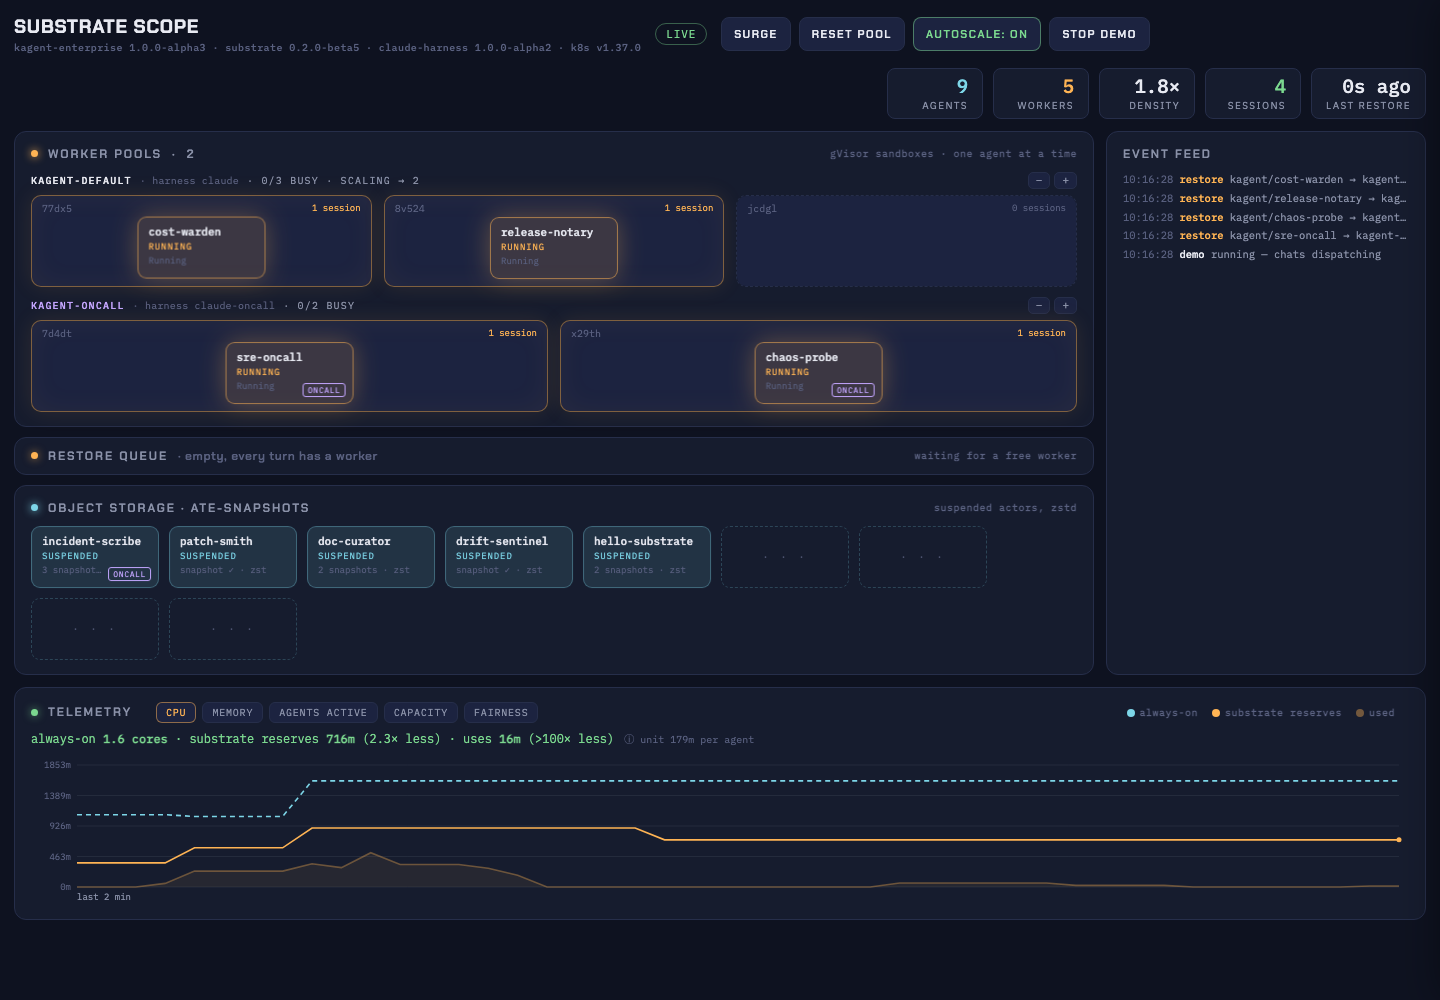
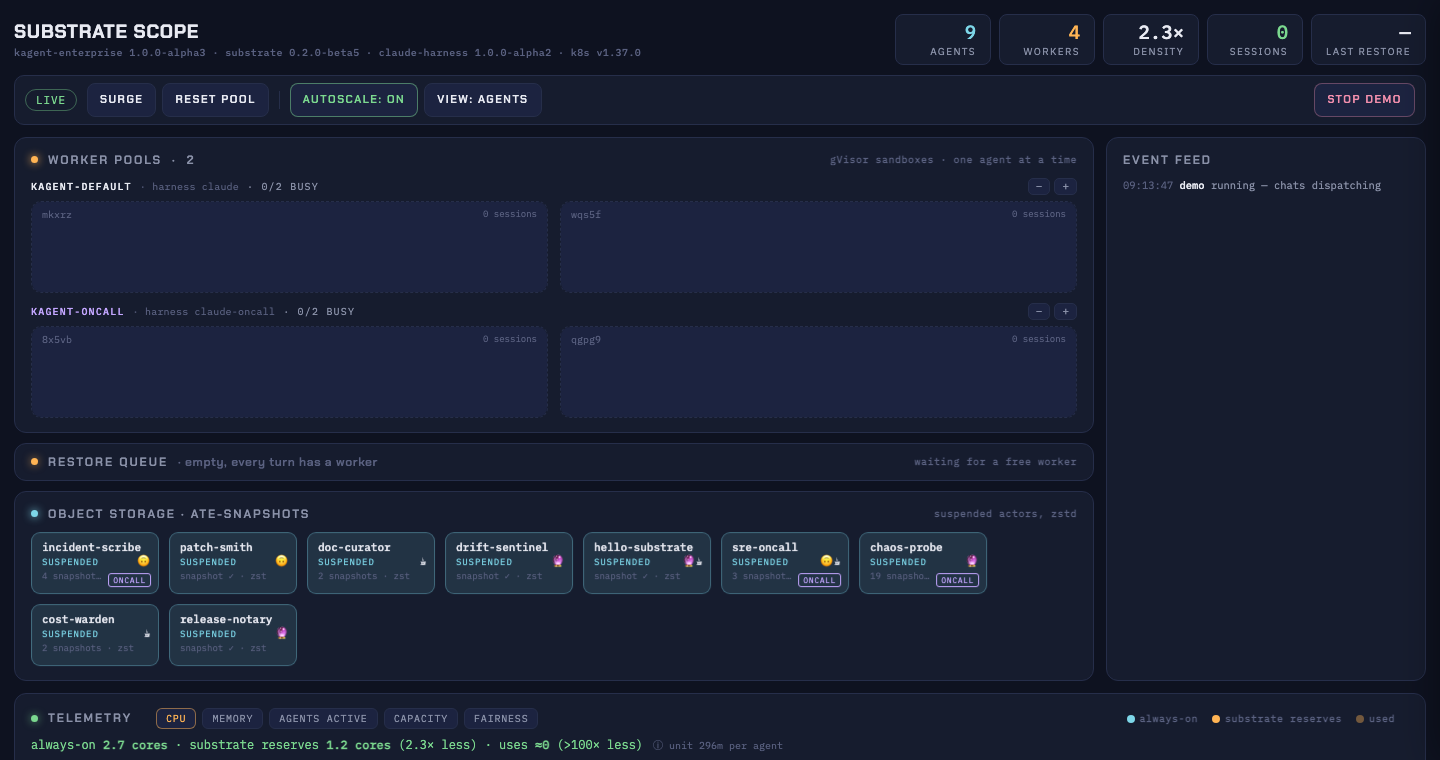
Header: brand + stats on one row, controls in a toolbar strip
The title, the floating buttons and the wrapping stat tiles read as three
unaligned groups. Now: row 1 is the brand (versions under it) and the
stats; row 2 is one toolbar with LIVE, the workload actions, the view and
scaling toggles, and STOP DEMO pinned right in its warning color. Chip
tool icons move to the status line so agent names get their full width.
README screenshot refreshed.

diff --git a/public/index.html b/public/index.html
@@ -18,7 +18,15 @@
   .app{display:flex;flex-direction:column;gap:12px;padding:14px;min-height:100vh}
 
   /* ── header ─────────────────────────────────────────── */
-  header{display:flex;align-items:center;gap:14px;flex-wrap:wrap}
+  /* row 1: brand left, stats right; row 2: one toolbar strip */
+  header{display:flex;flex-direction:column;gap:10px}
+  .hrow{display:flex;align-items:center;justify-content:space-between;gap:14px;flex-wrap:wrap}
+  .toolbar{display:flex;align-items:center;gap:10px;flex-wrap:wrap;padding:7px 10px;
+           background:var(--panel);border:1px solid var(--line);border-radius:10px}
+  .toolbar .ctrls{flex-wrap:wrap}
+  .tgroup{display:inline-flex;gap:6px}
+  .tsep{width:1px;height:18px;background:var(--line);margin:0 2px}
+  .toolbar .stop{margin-left:auto;color:var(--warn);border-color:rgba(242,143,173,.35)}
   .brand{font-family:var(--disp);font-weight:700;font-size:19px;letter-spacing:.04em}
   .brand small{color:var(--faint);font-weight:500;margin-left:8px;letter-spacing:.12em;font-size:11px;text-transform:uppercase}
   /* versions sit on their own line under the title, so they never push the controls */
@@ -40,7 +48,7 @@
   .surge{width:auto;padding:0 12px;font-family:var(--disp);font-weight:600;font-size:11px;
          letter-spacing:.14em;height:34px;border-radius:8px}
 
-  .stats{display:flex;gap:10px;margin-left:auto;flex-wrap:wrap}
+  .stats{display:flex;gap:8px;flex-wrap:wrap}
   .stat{background:var(--panel);border:1px solid var(--line);border-radius:8px;
         padding:6px 14px;text-align:right;min-width:96px}
   .stat b{display:block;font-family:var(--mono);font-size:19px;font-weight:500;
@@ -153,9 +161,9 @@
             border:1px solid var(--pc, var(--line));color:var(--pc, var(--faint))}
   .chip .pb:empty{display:none}
   /* the MCP servers an agent can call, as their icons (hover for the list) */
-  .chip .tl{position:absolute;top:6px;right:7px;font-size:10px;letter-spacing:1px;line-height:1}
+  .chip .tl{position:absolute;top:24px;right:7px;font-size:10px;letter-spacing:1px;line-height:1}
   .chip .tl:empty{display:none}
-  .chip.tooled .nm{padding-right:26px}
+  .chip.tooled .st{padding-right:28px}
   #versions{text-transform:none;letter-spacing:.04em}
   .chip.pooled .meta{padding-right:46px}
   .pgroup .plabel b{color:var(--pc, var(--text));white-space:nowrap}
@@ -276,30 +284,39 @@
 
 <div class="app">
   <header>
-    <div class="brand">SUBSTRATE SCOPE<small id="versions">kagent enterprise · live actor lifecycle</small></div>
-    <div class="mode" id="mode">SIMULATED</div>
-    <div class="ctrls" id="ctrls">
-      <div class="ctrl" id="wctrl"><span>workers</span>
-        <button id="w-dn" aria-label="fewer workers">−</button>
-        <button id="w-up" aria-label="more workers">+</button></div>
-      <div class="ctrl"><span>agents</span>
-        <button id="a-dn" aria-label="fewer agents">−</button>
-        <button id="a-up" aria-label="more agents">+</button></div>
-      <button class="surge" id="surge" title="invoke every idle agent at once">SURGE</button>
-      <button class="surge" id="reset" title="bounce worker pods to free wedged slots (snapshots survive)"
-              style="display:none">RESET POOL</button>
-      <button class="surge" id="autoscale" title="scale the pool automatically on queue depth / idle capacity"
-              style="display:none">AUTOSCALE: OFF</button>
-      <button class="surge" id="view" title="one chip per agent, or one chip per conversation (session)">VIEW: AGENTS</button>
-      <button class="surge" id="demo" title="master switch: stops the stimulator and surge from sending billable chats"
-              style="display:none">STOP DEMO</button>
+    <div class="hrow">
+      <div class="brand">SUBSTRATE SCOPE<small id="versions">kagent enterprise · live actor lifecycle</small></div>
+      <div class="stats">
+        <div class="stat"><b id="s-actors" class="coldv">0</b><span>agents</span></div>
+        <div class="stat"><b id="s-workers" class="hotv">0</b><span>workers</span></div>
+        <div class="stat"><b id="s-density">—</b><span>density</span></div>
+        <div class="stat"><b id="s-sessions" class="okv">0</b><span>sessions</span></div>
+        <div class="stat"><b id="s-cold">—</b><span>last restore</span></div>
+      </div>
     </div>
-    <div class="stats">
-      <div class="stat"><b id="s-actors" class="coldv">0</b><span>agents</span></div>
-      <div class="stat"><b id="s-workers" class="hotv">0</b><span>workers</span></div>
-      <div class="stat"><b id="s-density">—</b><span>density</span></div>
-      <div class="stat"><b id="s-sessions" class="okv">0</b><span>sessions</span></div>
-      <div class="stat"><b id="s-cold">—</b><span>last restore</span></div>
+    <div class="toolbar">
+      <div class="mode" id="mode">SIMULATED</div>
+      <div class="ctrls" id="ctrls">
+        <div class="ctrl" id="wctrl"><span>workers</span>
+          <button id="w-dn" aria-label="fewer workers">−</button>
+          <button id="w-up" aria-label="more workers">+</button></div>
+        <div class="ctrl"><span>agents</span>
+          <button id="a-dn" aria-label="fewer agents">−</button>
+          <button id="a-up" aria-label="more agents">+</button></div>
+        <span class="tgroup">
+          <button class="surge" id="surge" title="invoke every idle agent at once">SURGE</button>
+          <button class="surge" id="reset" title="free wedged workers: cancel open tasks, replace worker pods (snapshots survive)"
+                  style="display:none">RESET POOL</button>
+        </span>
+        <span class="tsep" aria-hidden="true"></span>
+        <span class="tgroup">
+          <button class="surge" id="autoscale" title="scale each pool automatically on its own demand"
+                  style="display:none">AUTOSCALE: OFF</button>
+          <button class="surge" id="view" title="one chip per agent, or one chip per conversation (session)">VIEW: AGENTS</button>
+        </span>
+      </div>
+      <button class="surge stop" id="demo" title="master switch: stops the stimulator and surge from sending billable chats"
+              style="display:none">STOP DEMO</button>
     </div>
   </header>
 
